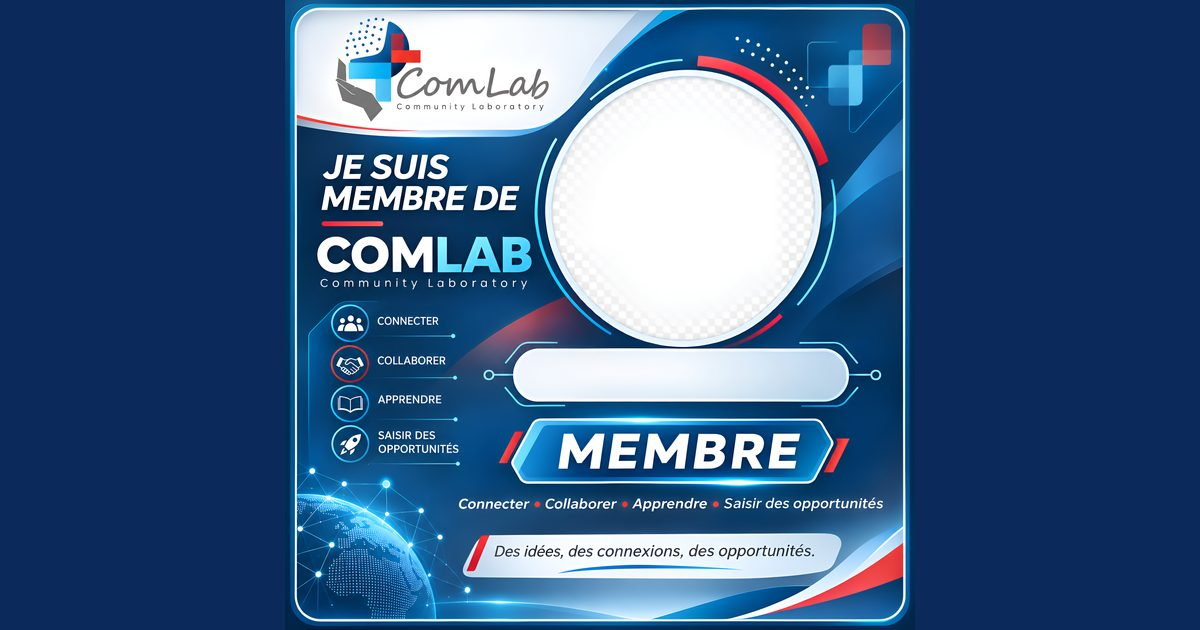
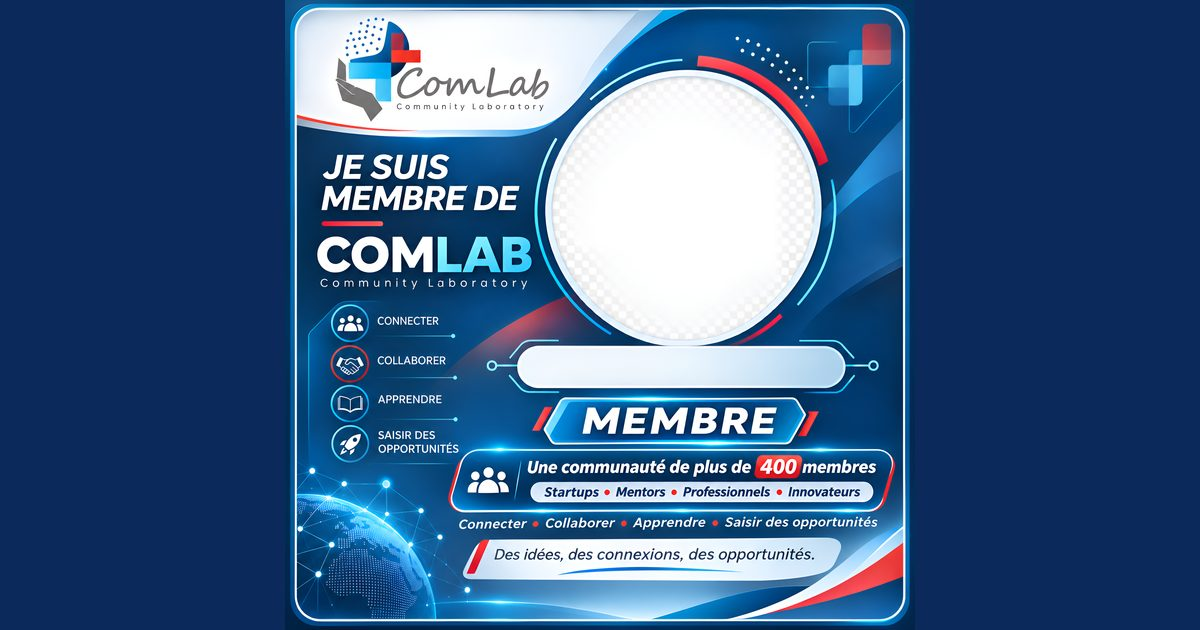
feat: adapt to updated membre template (name pill moved up)
Claude-Session: https://claude.ai/code/session_015YUA9QooR4HGoi6EWcA8ea

Changed region(s): [[0.2775, 0.5127, 0.7708, 0.9952], [0.2775, 0.573, 0.3083, 0.6032], [0.2467, 0.7841, 0.2775, 0.8143]]

diff --git a/src/config/templates.ts b/src/config/templates.ts
@@ -25,7 +25,7 @@ export interface TemplateConfig {
 // All coordinates are in 2508×2508 space (pixel-scanned from membre.png)
 // Photo circle: white ring spans x=1036–2134, y=307–1381 → center (1585,845).
 // r=515 keeps the outer white ring visible around the photo.
-// Name pill: white x≈912–2212, y≈1382–1580 → center (1565,1481).
+// Name pill: white x≈927–2227, y≈1377–1543 → center (1577,1460).
 export type TemplateType = 'membre'
 
 export const TEMPLATES: Record<TemplateType, TemplateConfig> = {
@@ -34,9 +34,9 @@ export const TEMPLATES: Record<TemplateType, TemplateConfig> = {
     canvasSize: { width: 2508, height: 2508 },
     photoZone: { x: 1585 - 515, y: 845 - 515, size: 1030, background: '#FFFFFF' },
     nameText: {
-      x: 1565, y: 1483,
-      fontSize: 112, minFontSize: 60,
-      maxWidth: 1120, bandHeight: 160,
+      x: 1577, y: 1460,
+      fontSize: 104, minFontSize: 56,
+      maxWidth: 1130, bandHeight: 140,
     },
   },
 }
